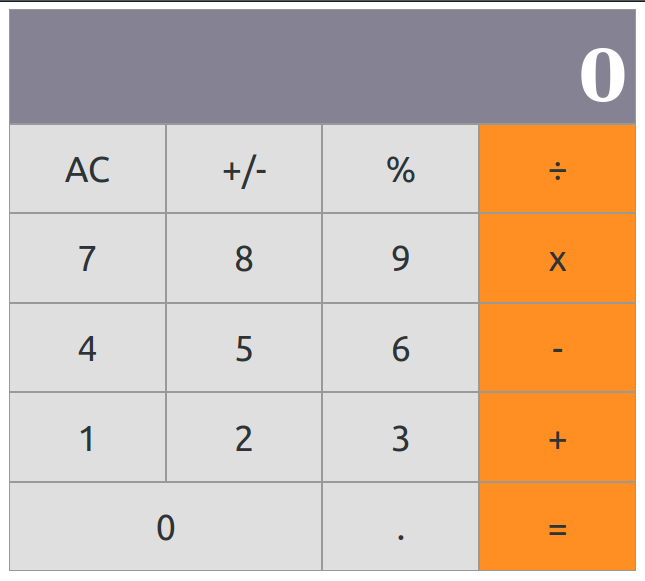
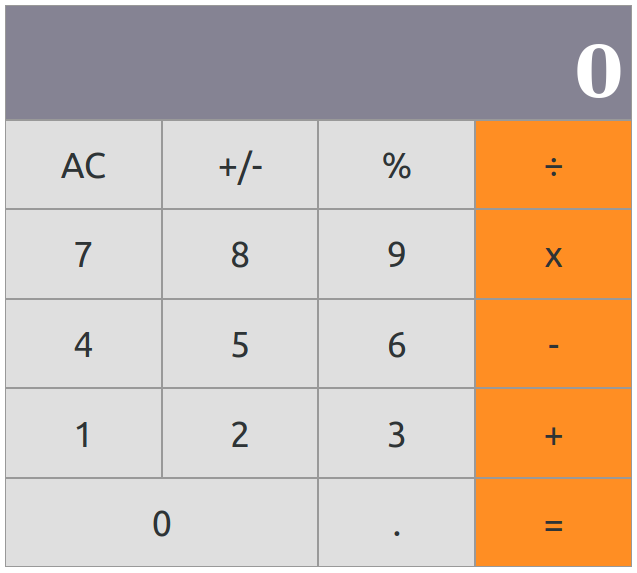
Changed button default color to orange

diff --git a/src/css/style.css b/src/css/style.css
@@ -45,6 +45,10 @@ button {
   width: 25%;
 }
 
+.orange {
+  background-color: var(--orange);
+}
+
 .gray {
   background-color: var(--light_gray);
 }

diff --git a/src/components/Button.js b/src/components/Button.js
@@ -22,6 +22,6 @@ Button.propTypes = {
 
 Button.defaultProps = {
   name: 'Button',
-  color: '',
+  color: 'orange',
   wide: false,
 };
